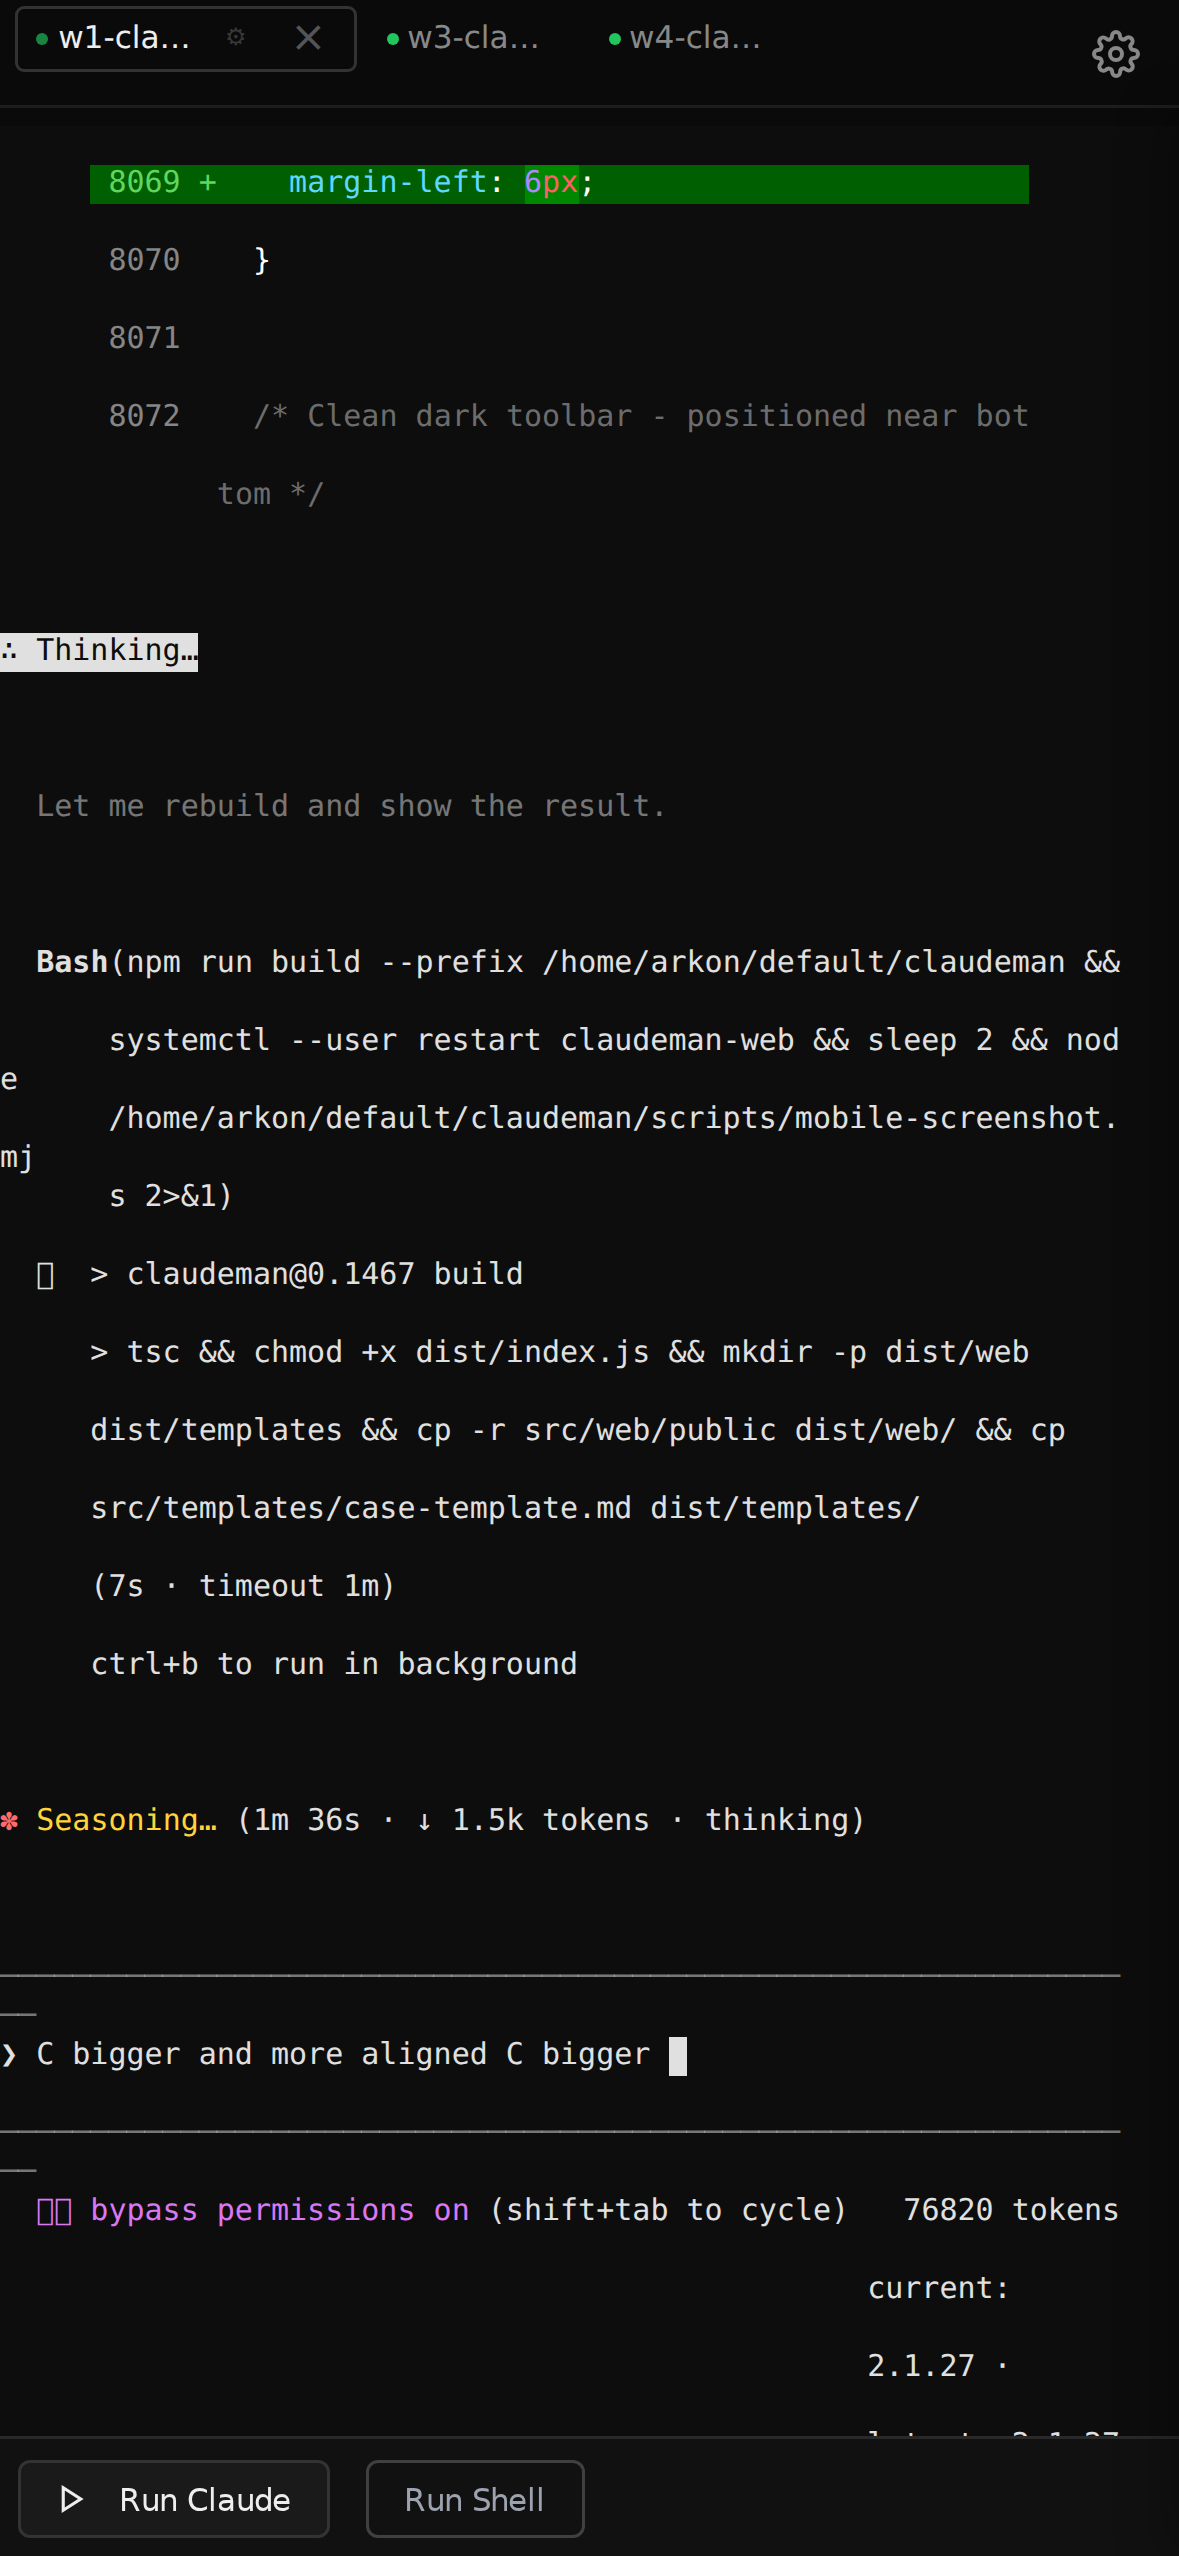
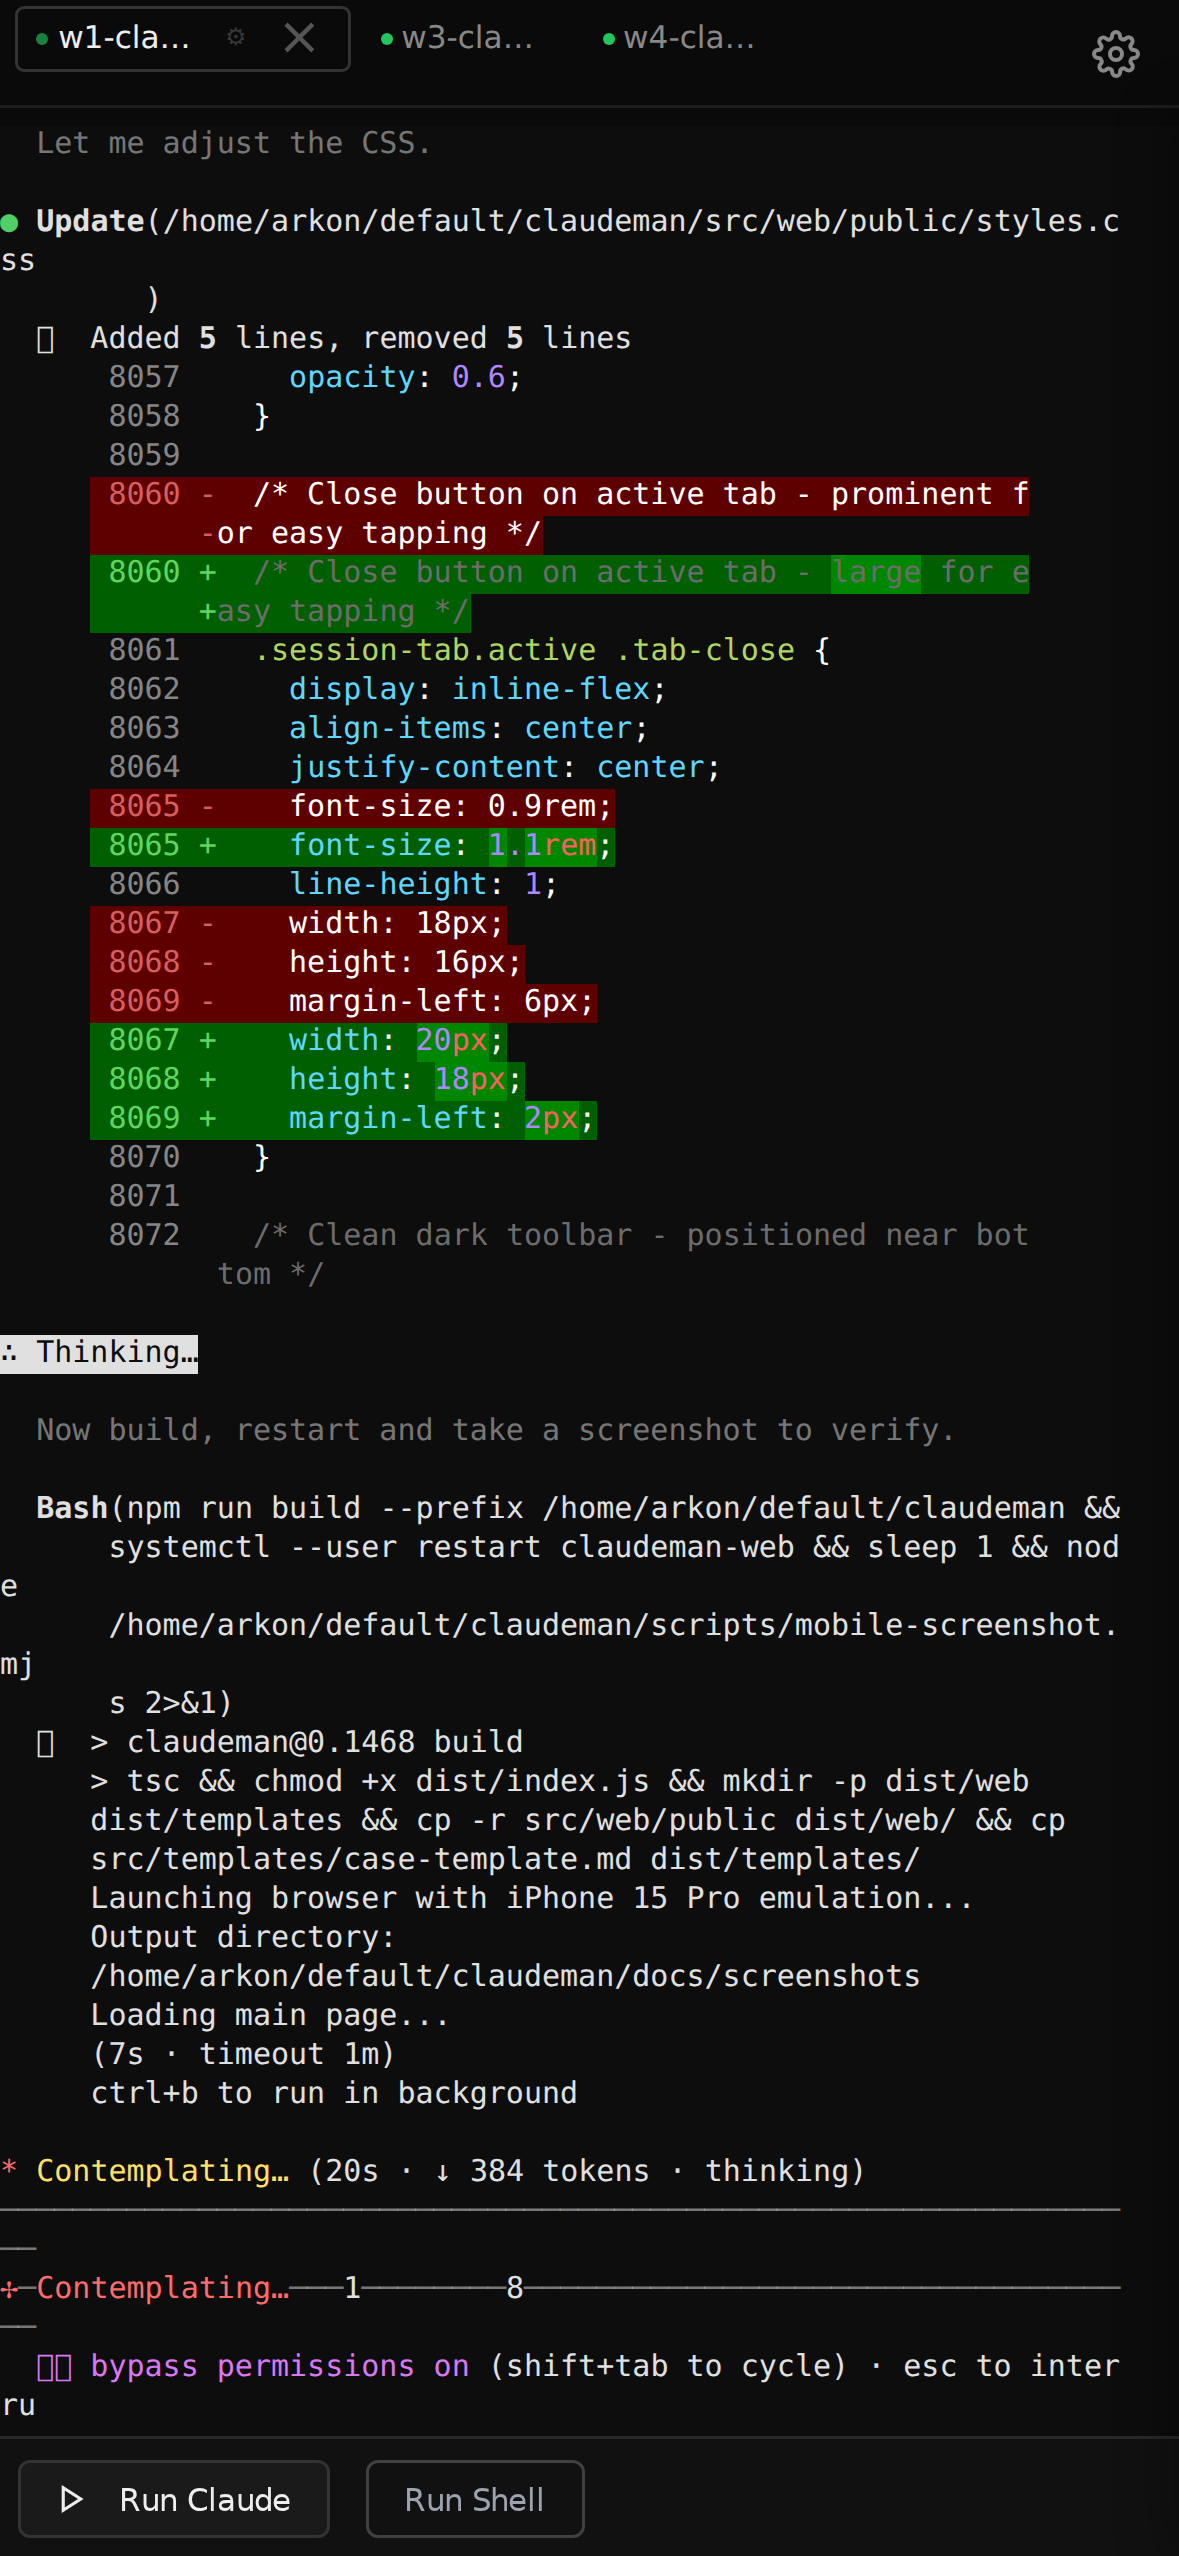
fix: larger X button, closer to gear on mobile tabs
- X: 1.1rem font, 20x18px (bigger)
- Gap reduced to 2px (closer together)

diff --git a/src/web/public/styles.css b/src/web/public/styles.css
@@ -8057,16 +8057,16 @@ kbd {
     opacity: 0.6;
   }
 
-  /* Close button on active tab - prominent for easy tapping */
+  /* Close button on active tab - large for easy tapping */
   .session-tab.active .tab-close {
     display: inline-flex;
     align-items: center;
     justify-content: center;
-    font-size: 0.9rem;
+    font-size: 1.1rem;
     line-height: 1;
-    width: 18px;
-    height: 16px;
-    margin-left: 6px;
+    width: 20px;
+    height: 18px;
+    margin-left: 2px;
   }
 
   /* Clean dark toolbar - positioned near bottom */

diff --git a/CLAUDE.md b/CLAUDE.md
@@ -16,7 +16,7 @@ When user says "COM":
 1. Increment version in BOTH `package.json` AND `CLAUDE.md`
 2. Run: `git add -A && git commit -m "chore: bump version to X.XXXX" && git push && npm run build && systemctl --user restart claudeman-web`
 
-**Version**: 0.1468 (must match `package.json` for npm publish)
+**Version**: 0.1469 (must match `package.json` for npm publish)
 
 ## Project Overview
 
